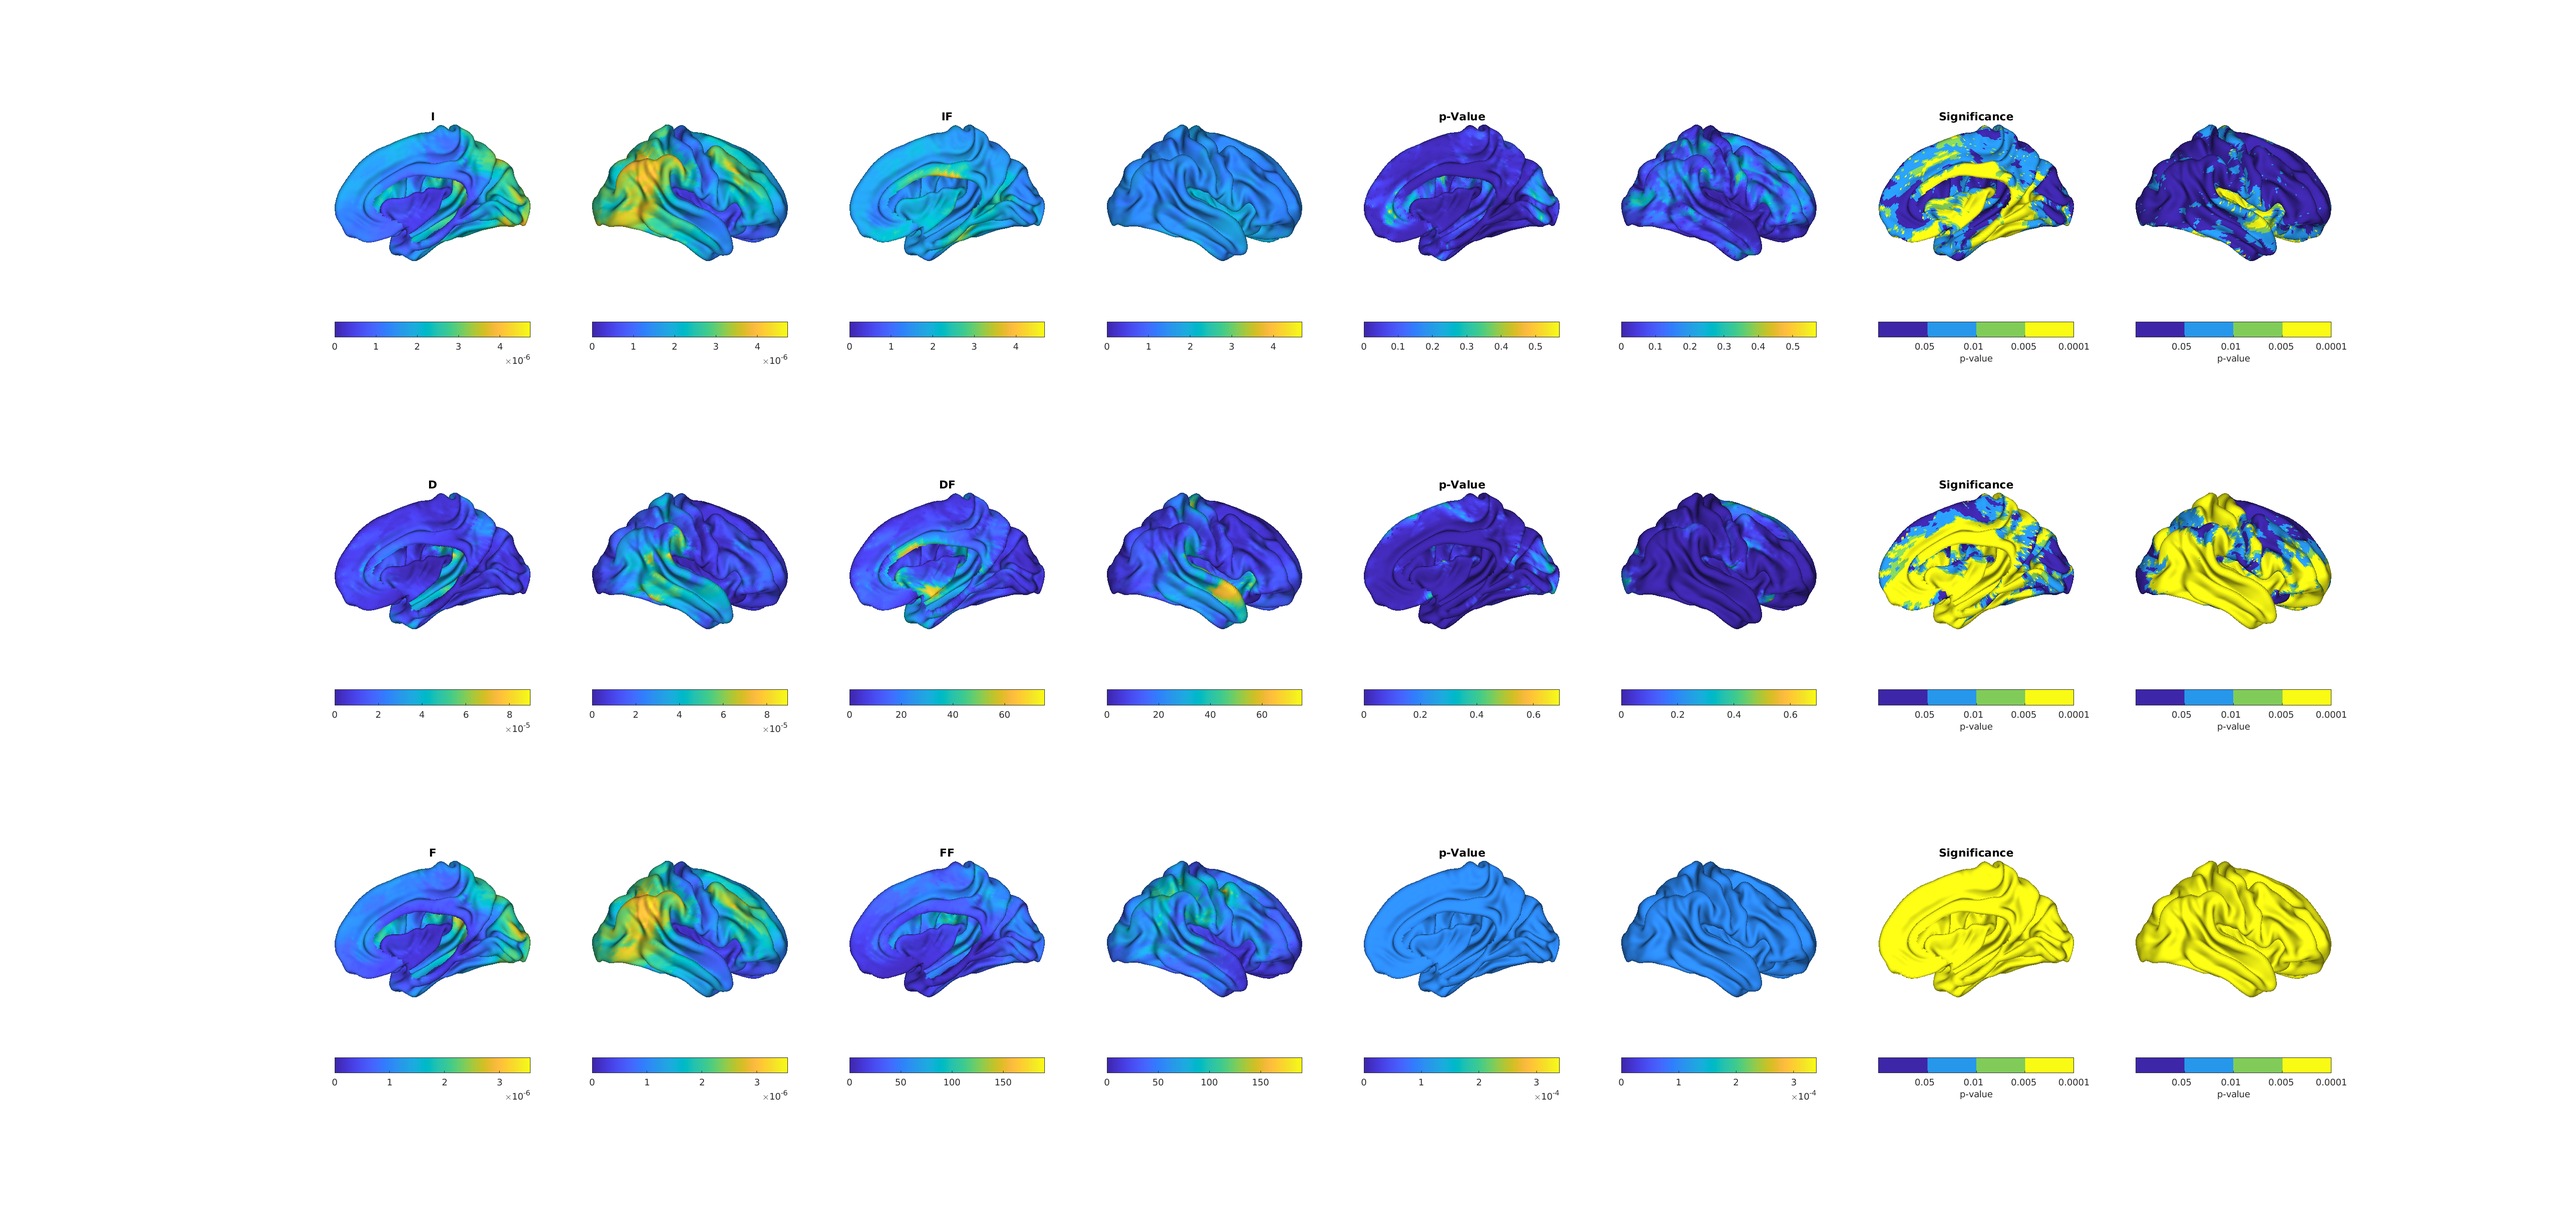
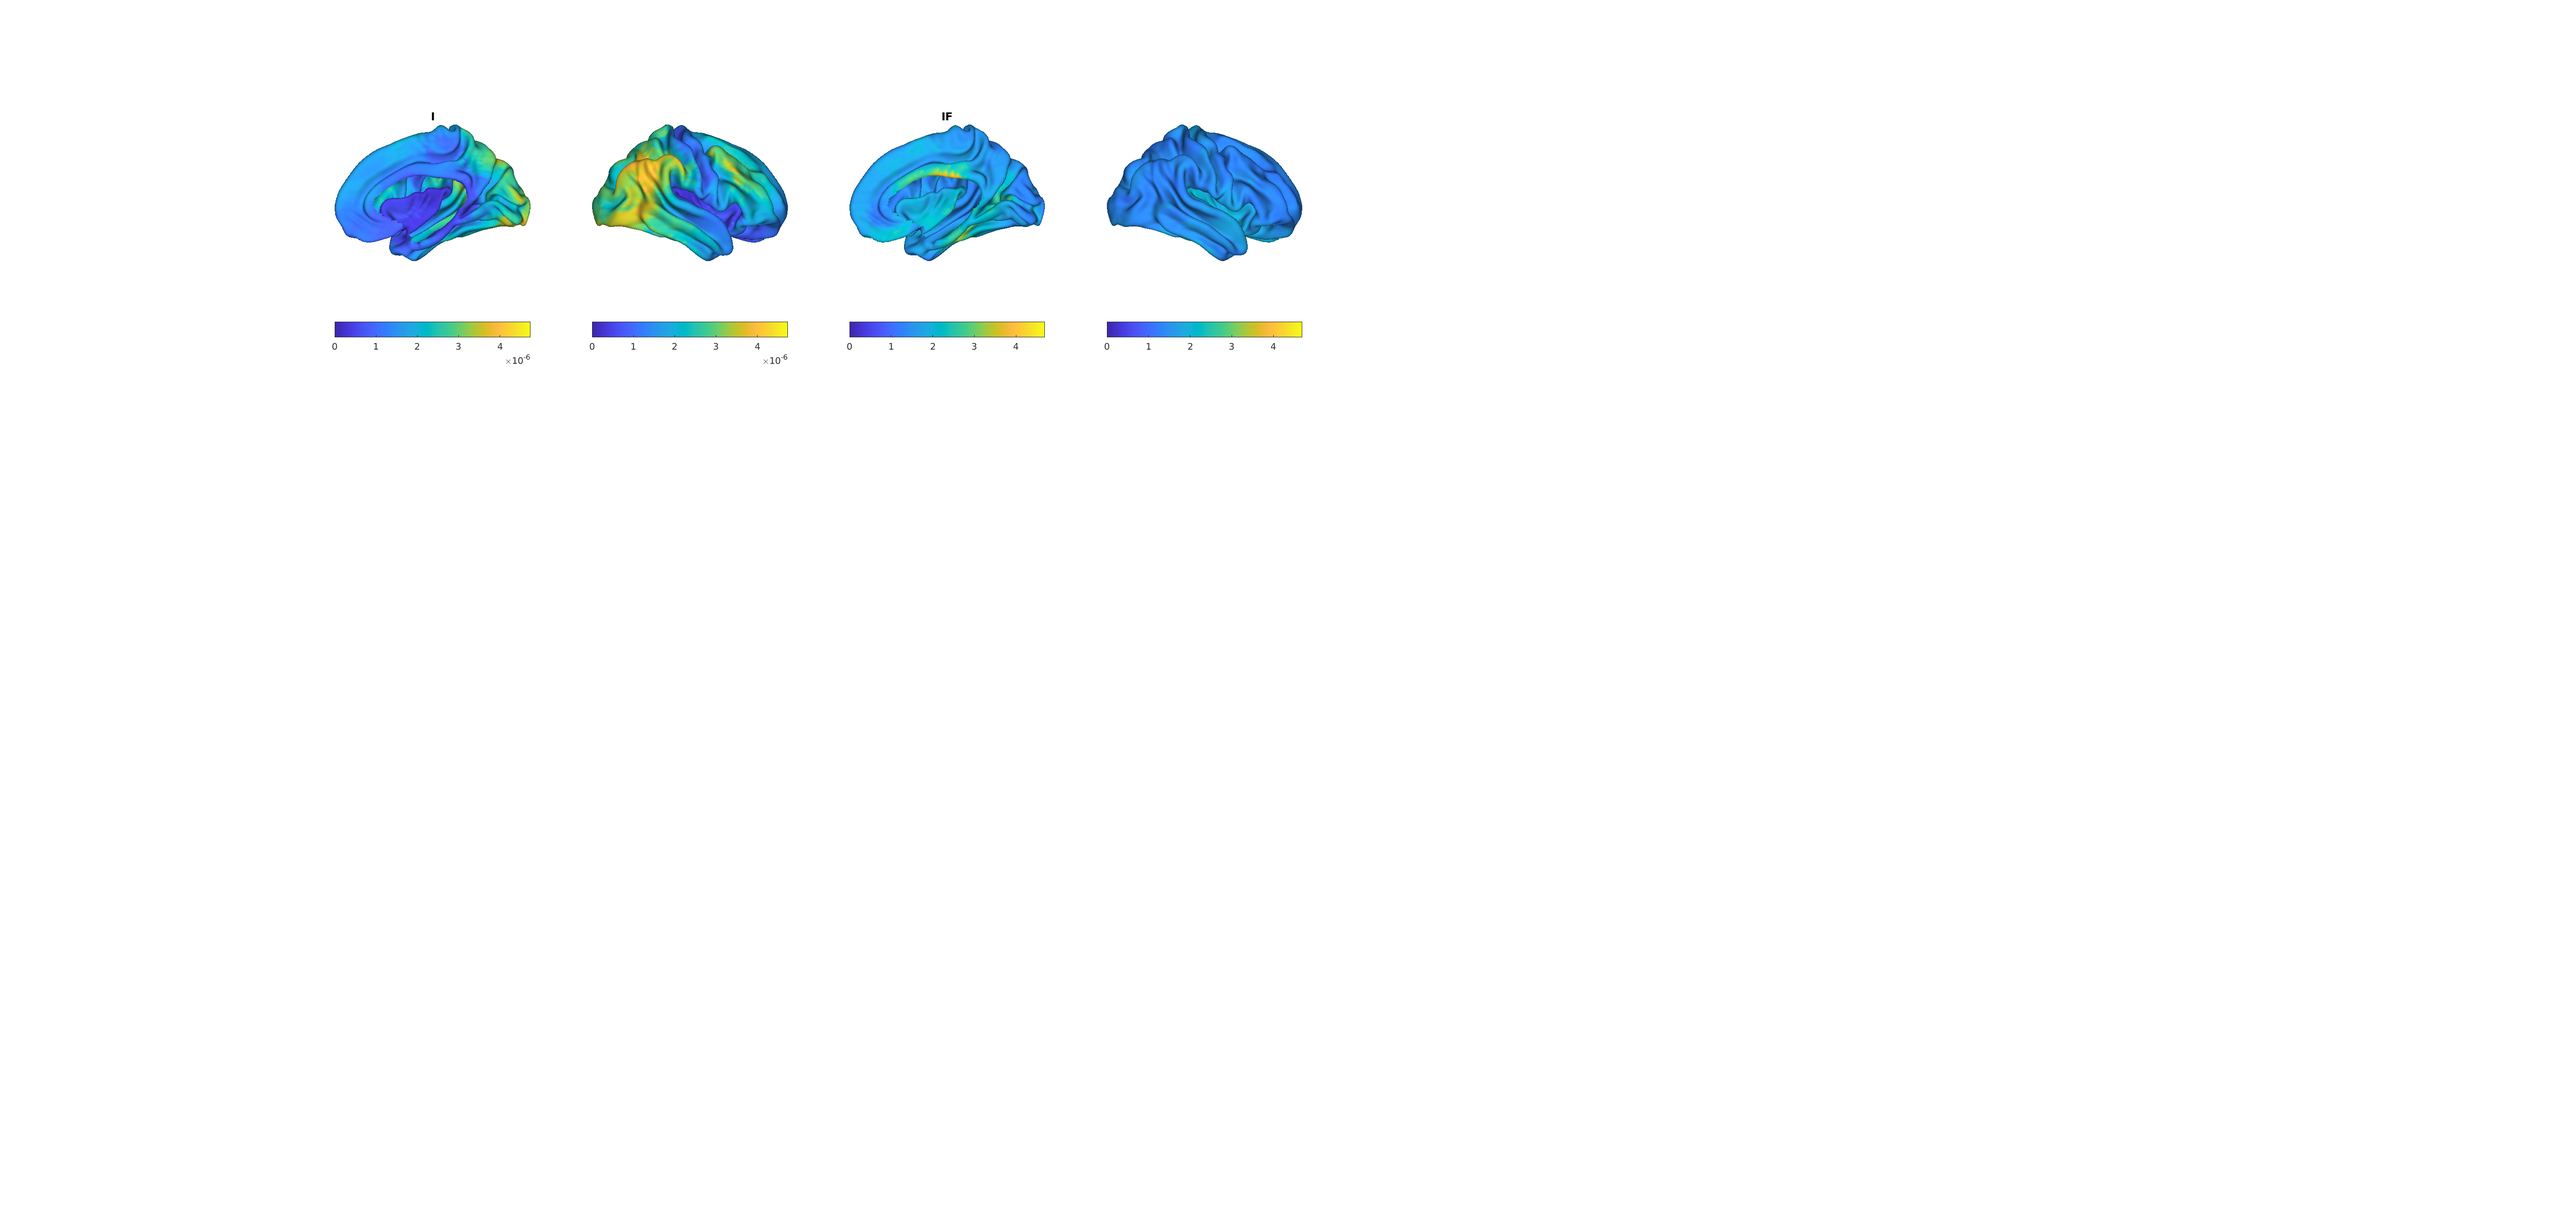
Fixed AMMI
Former-commit-id: dbe75cd8e1c48878074da69ee9559087f2334e04

diff --git a/matlab/demoBrainAsymmetry.m b/matlab/demoBrainAsymmetry.m
@@ -153,22 +153,26 @@ X2 = RepShapesInt16(nSamples+1:end,:,:);
 atlas = loadAtlas('Desikan_Killiany');
 if N_REP == 1
     RESULTS_DIR = ANALYS_DIR;
-    [out, scores] = computeAmmiModel(shapes); %650 provided for 0.1
+    [out, scores] = computeAmmiModel(shapes, 0, 3); %650 provided for 0.1
+    %%
     for comp=1:2
         f=figure;
         ax1 = subplot(1,2,1);
-        renderBrainSurface(clone(preprocTemplate), scores(:,comp), ax1);
         view(ax1, -90, 0);
         light = camlight(ax1, 'headlight');
         set(light,'Position', get(ax1,'CameraPosition'));
+        renderBrainSurface(clone(preprocTemplate), scores(:, comp), ax1);
+        colorbar(ax1, 'SouthOutside');
+        
         ax2 = subplot(1,2,2);
-        renderBrainSurface(clone(preprocTemplate), scores(:,comp), ax2);
+        renderBrainSurface(clone(preprocTemplate), scores(:, comp), ax2);
         view(ax2, 90, 0);
         light = camlight(ax2, 'headlight');
         set(light,'Position', get(ax2,'CameraPosition'));
+        colorbar(ax2, 'SouthOutside');
         
         sgtitle(['PC' num2str(comp)]);
-        colorbar(axes, 'SouthOutside');
+        
         savefig(f, [RESULTS_DIR 'ammi_pc' num2str(comp) '.fig']);
         saveas(f, [RESULTS_DIR 'ammi_pc' num2str(comp) '.png']);
     end

diff --git a/matlab/BrainAsymmetrySignificanceAnalysis/computeAmmiModel.m b/matlab/BrainAsymmetrySignificanceAnalysis/computeAmmiModel.m
@@ -1,7 +1,8 @@
-function [out, score] = computeAmmiModel(Shapes,  numComponents)
+function [out, score] = computeAmmiModel(Shapes,  numComponents, minNumComponents)
 arguments
 Shapes
 numComponents=0
+minNumComponents=2
 end
 inputShapes = Shapes;
 n = size(inputShapes,3)/2;
@@ -18,14 +19,18 @@ indDif = avgShapes - avgShape ;
 I = mean(sqrt(sum(indDif.^2,2)),3);
 %%
 disp("Computing Fluctuating Asymmetry..")
-flucMat = sideDif - mean(sideDif,3) + avgShape;
+flucMat = double(sideDif  - mean(sideDif,3) + avgShape);
 flucMat = reshape(permute(flucMat, [2,1,3]), [],size(flucMat,3));
 if numComponents==0
 disp("..Selecting optimal number of Principal Components to retain (Parallel Analysis)..")
-[latent, ~, latentHigh] = parallelAnalysis(flucMat, 100,0.05);
+[latent, ~, latentHigh] = parallelAnalysis(flucMat, 100,0.05, 'Centered', false, 'Algorithm', 'svd');
 numComponents = sum(latent > latentHigh');
 end
 disp(['..Selected number of components: ' num2str(numComponents)]);
+if numComponents < minNumComponents
+    numComponents = minNumComponents;
+    disp(['Less than minimum, using ' num2str(numComponents) ' instead']);
+end
 disp("..Applying PCA reconstruction..")
 [coeff, score, ~] =  pca(flucMat,'Centered',false, 'NumComponents', numComponents);
 rec = coeff * score';
